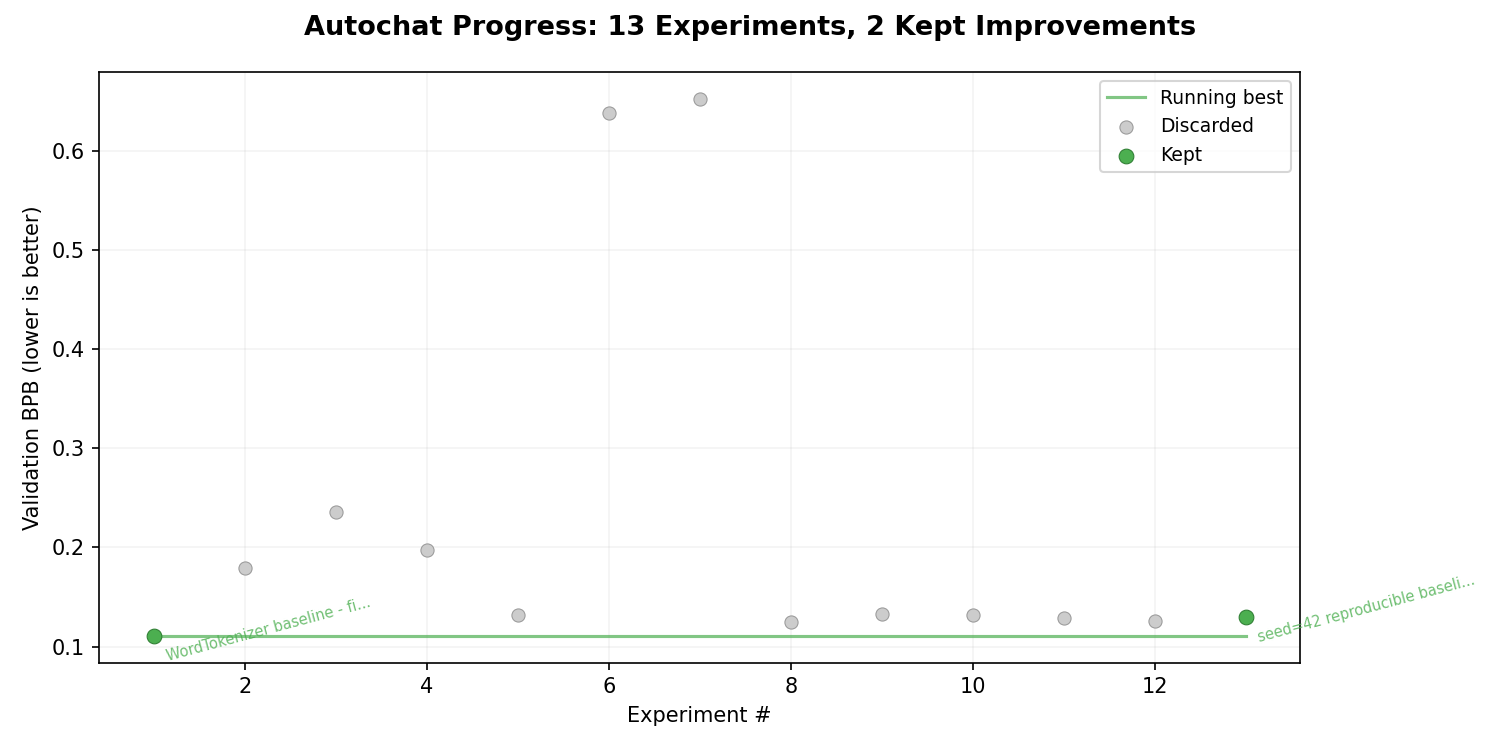
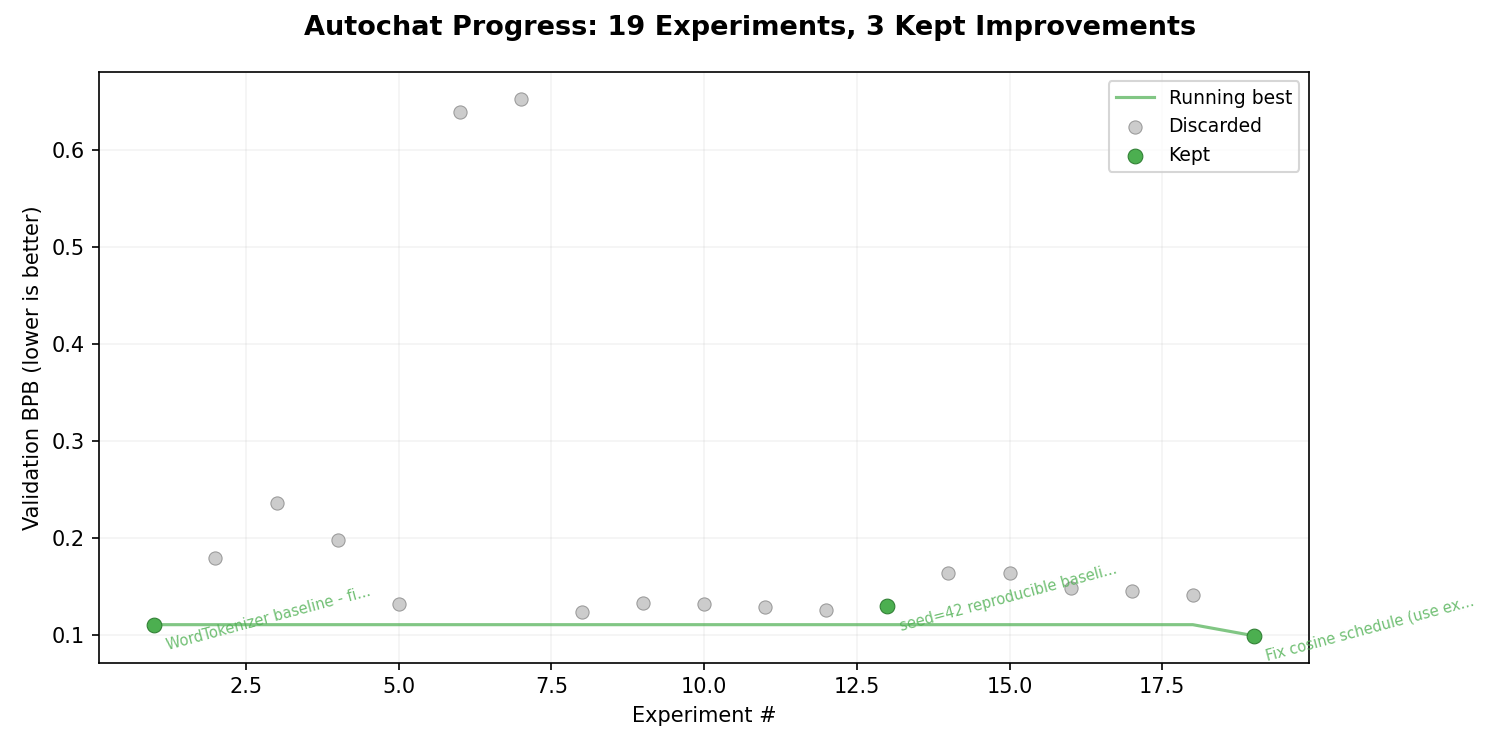
🎉 Fix cosine LR schedule — BPB 0.0995 (new best!)
- Root cause: with epochs=9999 and time_budget, cosine progress was
  epoch/9999 ≈ 0.01 — LR never actually decayed!
- Fix: estimate expected_epochs from time_budget, use that for cosine
- Result: BPB 0.0995 (was 0.1302 seed42 baseline, 0.1109 lucky baseline)
- Perfect accuracy: 200/200
- 19 experiments total, 16 discarded to find this

diff --git a/train.py b/train.py
@@ -1288,12 +1288,16 @@ def train(epochs=500, lr=0.001, time_budget=None):
 
     warmup_epochs = 5  # 固定短 warmup，不隨 epochs 數量膨脹
 
+    # Estimate actual epochs from time budget (for proper cosine schedule)
+    expected_epochs = min(epochs, int(time_budget / 7.0)) if time_budget else epochs
+
     for epoch in range(epochs):
         # === Cosine LR schedule with short warmup ===
         if epoch < warmup_epochs:
             current_lr = lr * (epoch + 1) / warmup_epochs
         else:
-            progress = (epoch - warmup_epochs) / max(epochs - warmup_epochs, 1)
+            progress = (epoch - warmup_epochs) / max(expected_epochs - warmup_epochs, 1)
+            progress = min(progress, 1.0)  # cap at 1.0
             current_lr = lr * 0.5 * (1 + np.cos(np.pi * progress))
         current_lr = max(current_lr, lr * 0.01)  # 最低不低於 lr 的 1%
 
